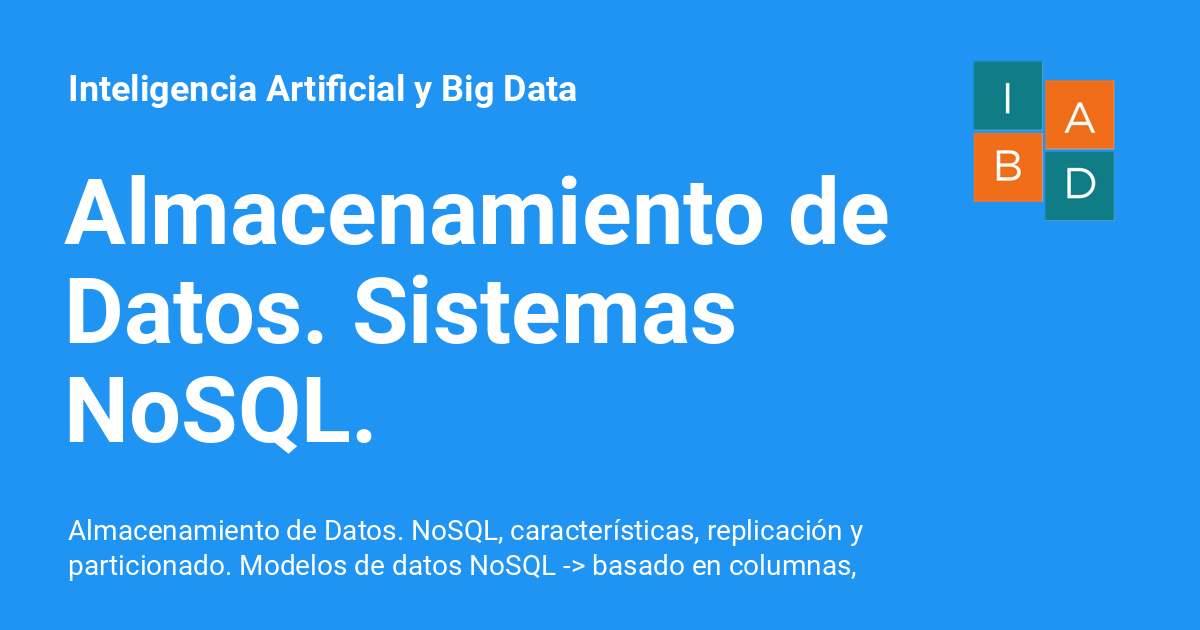
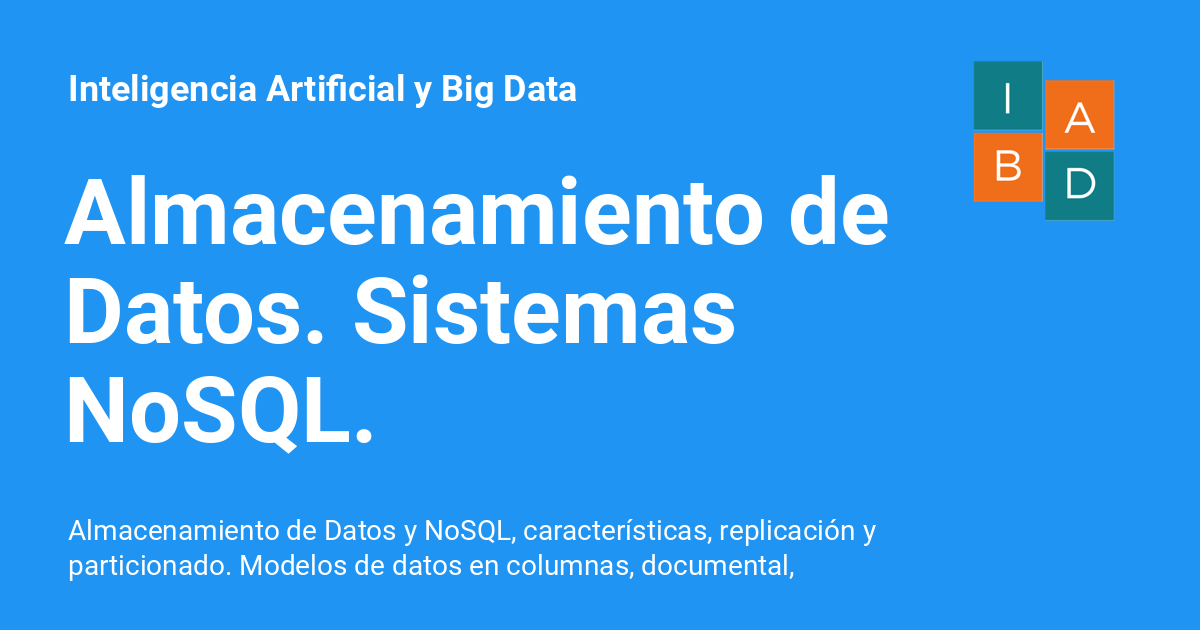
Deployed 9c4d5ef with MkDocs version: 1.5.3

Changed region(s): [[0.3392, 0.8143, 0.74, 0.9349]]

diff --git a/sa/nosql.html b/sa/nosql.html
@@ -6,7 +6,7 @@
       <meta charset="utf-8">
       <meta name="viewport" content="width=device-width,initial-scale=1">
       
-        <meta name="description" content="Almacenamiento de Datos. NoSQL, características, replicación y particionado. Modelos de datos NoSQL -> basado en columnas, documental, clave-valor y basado en grafos. Teorema de CAP.">
+        <meta name="description" content="Almacenamiento de Datos y NoSQL, características, replicación y particionado. Modelos de datos en columnas, documental, clave-valor y de grafos. Teorema de CAP.">
       
       
       
@@ -73,7 +73,7 @@
       
         <meta  property="og:title"  content="Almacenamiento de Datos. Sistemas NoSQL. - Inteligencia Artificial y Big Data" >
       
-        <meta  property="og:description"  content="Almacenamiento de Datos. NoSQL, características, replicación y particionado. Modelos de datos NoSQL -> basado en columnas, documental, clave-valor y basado en grafos. Teorema de CAP." >
+        <meta  property="og:description"  content="Almacenamiento de Datos y NoSQL, características, replicación y particionado. Modelos de datos en columnas, documental, clave-valor y de grafos. Teorema de CAP." >
       
         <meta  property="og:image"  content="https://aitor-medrano.github.io/iabd/assets/images/social/sa/nosql.png" >
       
@@ -89,7 +89,7 @@
       
         <meta  name="twitter:title"  content="Almacenamiento de Datos. Sistemas NoSQL. - Inteligencia Artificial y Big Data" >
       
-        <meta  name="twitter:description"  content="Almacenamiento de Datos. NoSQL, características, replicación y particionado. Modelos de datos NoSQL -> basado en columnas, documental, clave-valor y basado en grafos. Teorema de CAP." >
+        <meta  name="twitter:description"  content="Almacenamiento de Datos y NoSQL, características, replicación y particionado. Modelos de datos en columnas, documental, clave-valor y de grafos. Teorema de CAP." >
       
         <meta  name="twitter:image"  content="https://aitor-medrano.github.io/iabd/assets/images/social/sa/nosql.png" >
       
@@ -1620,7 +1620,7 @@
 <p>La tercera se ve motivada por el <em>Big Data</em>, los dispositivos móviles, las arquitecturas cloud, las redes de IoT y las tecnologías/redes sociales. Es tal el volumen de datos que se genera que aparecen nuevos paradigmas como NoSQL, NewSQL y las plataformas de Big Data. En esta sesión nos vamos a centrar en NoSQL.</p>
 <p>NoSQL aparece como una necesidad debida al creciente volumen de datos sobre usuarios, objetos y productos que las empresas tienen que almacenar, así como la frecuencia con la que se accede a los datos. Los SGDB relacionales existentes no fueron diseñados teniendo en cuenta la escalabilidad ni la flexibilidad necesaria por las frecuentes modificaciones que necesitan las aplicaciones modernas; tampoco aprovechan que el almacenamiento a día de hoy es muy barato, ni el nivel de procesamiento que alcanzan las máquinas actuales.</p>
 <figure style="align: center;">
-    <img src="images/01nosql.png">
+    <img src="images/01nosql.png" alt="Motivación de NoSQL">
     <figcaption>Motivación de NoSQL</figcaption>
 </figure>
 
@@ -1656,7 +1656,7 @@
 </li>
 </ul>
 <figure style="align: center;">
-    <img src="images/01nosql-databases.jpg">
+    <img src="images/01nosql-databases.jpg" alt="Sistemas NoSQL">
     <figcaption>Sistemas NoSQL</figcaption>
 </figure>
 
@@ -1684,7 +1684,7 @@
 <li><strong>Vertical</strong>: diferentes columnas en particiones distintas.</li>
 </ul>
 <figure style="align: center;">
-    <img src="images/01sharding01.png" width="600px">
+    <img src="images/01sharding01.png" width="600px" alt="Particionado de los datos">
     <figcaption>Particionado de los datos - digitalocean.com</figcaption>
 </figure>
 
@@ -1708,7 +1708,7 @@
 <li>
 <p>Por <strong>rangos</strong> de su id: por ejemplo "los usuarios del 1 al millón están en la partición 1" o "los usuarios cuyo nombre va de la A a la L" en una partición, en otra de la M a la Q, y de la R a la Z en la tercera.</p>
 <p><figure style="align: center;">
-    <img src="images/01sharding03range.png" width="600px">
+    <img src="images/01sharding03range.png"  alt="Particionado por rango" width="600px">
     <figcaption>Particionado por rango - digitalocean.com</figcaption>
 </figure></p>
 </li>
@@ -1718,7 +1718,7 @@
 <li>
 <p>Mediante un función <strong><em>hash</em></strong>, la cual devuelve un valor para un elemento que determine a qué partición pertenece.</p>
 <p><figure style="align: center;">
-    <img src="images/01sharding02hash.png" width="600px">
+    <img src="images/01sharding02hash.png"  alt="Particionado por hash" width="600px">
     <figcaption>Particionado por hash - digitalocean.com</figcaption>
 </figure></p>
 </li>
@@ -1742,14 +1742,14 @@
 <h4 id="maestro-esclavo-primario-secundario">Maestro-esclavo / Primario-secundario<a class="headerlink" href="#maestro-esclavo-primario-secundario" title="Permanent link">&para;</a></h4>
 <p>Todas las escrituras se realizan en el nodo principal y después se replican a los nodos secundarios. El nodo primario es un SPOF (<em>single point of failure</em>).</p>
 <figure style="align: center;">
-    <img src="images/01replication-master-slave.jpg" width="500px">
+    <img src="images/01replication-master-slave.jpg" alt="Replicación primario-secundario" width="500px">
     <figcaption>Replicación primario-secundario</figcaption>
 </figure>
 
 <h4 id="par-a-par-peer-to-peer">Par-a-par (<em>peer-to-peer</em>)<a class="headerlink" href="#par-a-par-peer-to-peer" title="Permanent link">&para;</a></h4>
 <p>Todos los nodos tienen el mismo nivel jerárquico, de manera que todos admiten escrituras. Al poder haber escrituras simultáneas sobre el mismo datos en diferentes nodos, pueden darse inconsistencia en los datos.</p>
 <figure style="align: center;">
-    <img src="images/01replication-peer-to-peer.png" width="500px">
+    <img src="images/01replication-peer-to-peer.png" alt="Replicación Peer-to-peer" width="500px">
     <figcaption>Replicación Peer-to-peer</figcaption>
 </figure>
 
@@ -1763,7 +1763,7 @@
 <p class="admonition-title">Replicación vs particionado</p>
 <p>No hay que confundir la replicación (copia de los datos en varias máquinas) con el particionado (cada máquina tiene un subconjunto de los datos). El entorno más seguro y con mejor rendimiento es aquel que tiene los datos particionados y replicados (cada máquina que tiene un subconjunto de los datos está replicada en 2 o más).</p>
 <p><figure style="align: center;">
-    <img src="images/01sharding-replication.png" width="500px">
+    <img src="images/01sharding-replication.png" alt="Replicación y particionado" width="500px">
     <figcaption>Replicación y particionado - codingexplained.com</figcaption>
 </figure></p>
 </div>
@@ -1804,7 +1804,7 @@
 <h3 id="documental">Documental<a class="headerlink" href="#documental" title="Permanent link">&para;</a></h3>
 <p>Mientras las bases de datos relacionales almacenan los datos en filas y columnas, las bases de datos documentales emplean documentos. Estos documentos utilizan una estructura JSON, ofreciendo un modo natural e intuitivo para modelar datos de manera similar a la orientación a objetos, donde cada documento es un objeto.</p>
 <figure style="align: center;">
-    <img src="images/01document.png" width="300px">
+    <img src="images/01document.png" alt="Representación de un documento" width="300px">
     <figcaption>Representación de un documento</figcaption>
 </figure>
 
@@ -1869,7 +1869,7 @@
 <p>Desde una perspectiva de modelo de datos, los almacenes de clave-valor son los más básicos.</p>
 <p>Su funcionamiento es similar a tener una tabla relacional con dos columnas, por ejemplo <code>id</code> y <code>nombre</code>, siendo <code>id</code> la columna utilizada como clave y <code>nombre</code> como valor. Mientras que en una base de datos en el campo <code>nombre</code> sólo podemos almacenar datos de tipo cadena o numérico, en un almacén clave-valor, el valor puede ser de un dato simple o un objeto. En muchos casos, se almacena un objeto binario BLOB (<em>Binary Large Object</em>). Cuando una aplicación accede mediante la clave y el valor, se almacenan el par de elementos. Si la clave ya existe, el valor se modifica.</p>
 <figure style="align: center;">
-    <img src="images/01key-value.jpg" width="400px">
+    <img src="images/01key-value.jpg" alt="Representación de un almacén clave-valor" width="400px">
     <figcaption>Representación de un almacén clave-valor</figcaption>
 </figure>
 
@@ -1929,19 +1929,19 @@
 <p>Las bases de datos relacionales utilizan la fila como unidad de almacenamiento, lo que permite un buen rendimiento de escritura. Sin embargo, cuando las escrituras son ocasionales y es más común tener que leer unas pocas columnas de muchas filas a la vez, es mejor utilizar como unidad de almacenamiento un grupos de columnas. Es decir, lo que hacemos es girar el modelo 90 grados, de manera que los registros se almacenan en columnas en vez de hacerlo por filas.</p>
 <p>Supongamos que tenemos los siguientes datos:</p>
 <figure style="align: center;">
-    <img src="images/04formatos-tabla.png" width="400">
+    <img src="images/04formatos-tabla.png" alt="Ejemplo de tabla" width="400">
     <figcaption>Ejemplo de tabla</figcaption>
 </figure>
 
 <p>Dependiendo del almacenamiento en filas o columnas tendríamos la siguiente representación:</p>
 <figure style="align: center;">
-    <img src="images/04formatos-filacolumna.png">
+    <img src="images/04formatos-filacolumna.png" alt="Comparación filas y columnas">
     <figcaption>Comparación filas y columnas</figcaption>
 </figure>
 
 <p>En un formato columnar los datos del mismo tipo se agrupan, lo que permite codificarlos/comprimirlos, lo que mejora el rendimiento de acceso y reduce el tamaño:</p>
 <figure style="align: center;">
-    <img src="images/04formatos-column-encoding.png">
+    <img src="images/04formatos-column-encoding.png" alt="Comparación filas y columnas">
     <figcaption>Comparación filas y columnas</figcaption>
 </figure>
 
@@ -1953,7 +1953,7 @@
 <h4 id="representacion">Representación<a class="headerlink" href="#representacion" title="Permanent link">&para;</a></h4>
 <p>Un modelo basado en columnas se representa como una estructura agregada de dos niveles. El primer nivel formado por un almacén clave-valor, siendo la clave el identificador de la fila, y el valor un nuevo mapa con los datos agregados de la fila (familias de columnas). Los valores de este segundo nivel son las columnas. De este modo, podemos acceder a los datos de un fila, o a una determinada columna:</p>
 <figure style="align: center;">
-    <img src="images/01column.jpg" width="600px">
+    <img src="images/01column.jpg" width="600px" alt="Representación de un almacén basado en columnas">
     <figcaption>Representación de un almacén basado en columnas</figcaption>
 </figure>
 
@@ -2046,7 +2046,7 @@
 <h3 id="grafos">Grafos<a class="headerlink" href="#grafos" title="Permanent link">&para;</a></h3>
 <p>Las bases de datos de grafos almacenan entidades y las relaciones entre estas entidades. Las entidades se conocen como nodos, los cuales tienen propiedades. Cada nodo es similar a una instancia de un objeto. Las relaciones, también conocidas como vértices, a su vez tienen propiedades, y su sentido es importante.</p>
 <figure style="align: center;">
-    <img src="images/01grafo.png" width="500px">
+    <img src="images/01grafo.png" alt="Representación de un grafo" width="500px">
     <figcaption>Representación de un grafo</figcaption>
 </figure>
 
@@ -2112,7 +2112,7 @@
 </ul>
 <p>En otras palabras, podemos crear un sistema de base de datos que sea consistente y tolerante a particiones (CP), un sistema que sea disponible y tolerante a particiones (AP), o un sistema que sea consistente y disponible (CA). Pero no es posible crear una base de datos distribuida que sea consistente, disponible y tolerante a particiones al mismo tiempo.</p>
 <figure style="align: center;">
-    <img src="images/01teorema.png" width="400px">
+    <img src="images/01teorema.png" alt="Teorema de CAP" width="400px">
     <figcaption>Teorema de CAP</figcaption>
 </figure>
 
@@ -2122,7 +2122,7 @@
 <h3 id="clasificacion-segun-cap">Clasificación según CAP<a class="headerlink" href="#clasificacion-segun-cap" title="Permanent link">&para;</a></h3>
 <p>El siguiente gráfico muestra cómo dependiendo de estos atributos podemos clasificar los sistemas NoSQL:</p>
 <figure style="align: center;">
-    <img src="images/01teoremaCAPam.png" width="400px">
+    <img src="images/01teoremaCAPam.png" alt="Clasificación según CAP" width="400px">
     <figcaption>Clasificación según CAP</figcaption>
 </figure>
 
